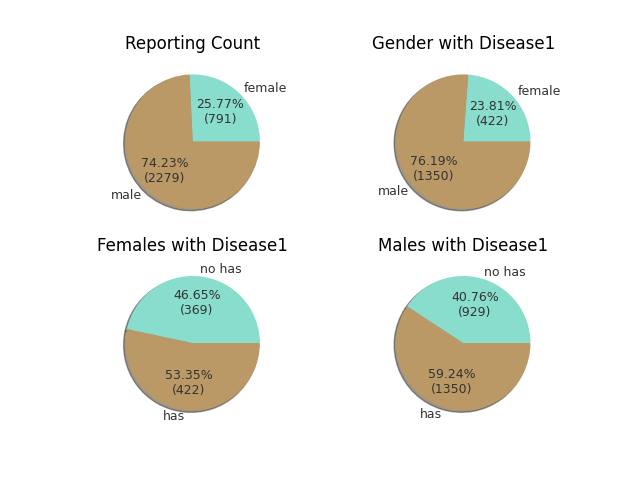
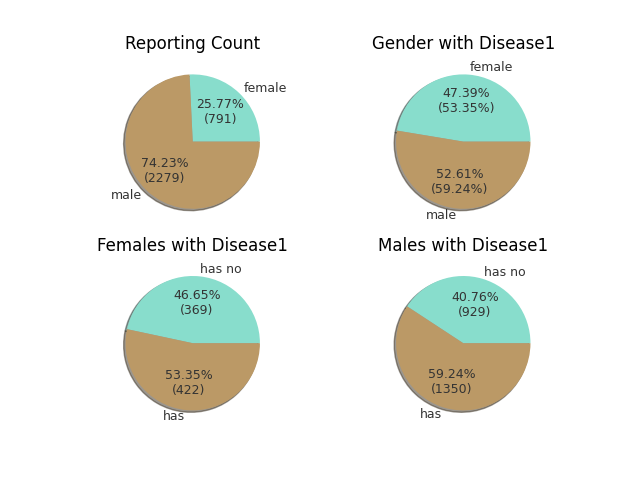
230710 fix calculate bug in hw1.py

diff --git a/AI_python/0707/hw1.py b/AI_python/0707/hw1.py
@@ -66,7 +66,8 @@ print(f'Females and Males reporting: \n    females: {percent(f_rpt_prop)}\n    m
 def make_autopct(values):
     def autopct(percent):
         total = sum(values)
-        val = int(round(percent * total/100))
+        val = float(r(percent * total/100)) 
+        val = str(val)+'%' if val%1 else int(val)
         return f'{r(percent)}%\n({val})'
     return autopct
 
@@ -76,7 +77,8 @@ plt.subplot(221)
 plt.title('Reporting Count')
 plt.pie(values, labels=['female','male'], shadow=True, autopct=make_autopct(values),textprops={'color':'#333','size':9},colors=color)
 
-values = [f_d1_count,m_d1_count]
+
+values = [100*f_d1_prop, 100*m_d1_prop]
 plt.subplot(222)
 plt.title('Gender with Disease1')
 plt.pie(values, labels=['female','male'], shadow=True, autopct=make_autopct(values),textprops={'color':'#333','size':9},colors=color)
@@ -84,12 +86,12 @@ plt.pie(values, labels=['female','male'], shadow=True, autopct=make_autopct(valu
 values = [f_count - f_d1_count, f_d1_count]
 plt.subplot(223)
 plt.title('Females with Disease1')
-plt.pie(values, labels=['no has','has'], shadow=True, autopct=make_autopct(values),textprops={'color':'#333','size':9},colors=color)
+plt.pie(values, labels=['has no','has'], shadow=True, autopct=make_autopct(values),textprops={'color':'#333','size':9},colors=color)
 
 values = [m_count - m_d1_count, m_d1_count]
 plt.subplot(224)
 plt.title('Males with Disease1')
-plt.pie(values, labels=['no has','has'], shadow=True, autopct=make_autopct(values),textprops={'color':'#333','size':9},colors=color)
+plt.pie(values, labels=['has no','has'], shadow=True, autopct=make_autopct(values),textprops={'color':'#333','size':9},colors=color)
 # print(df.describe())
 
 plt.savefig('hw1.png')
